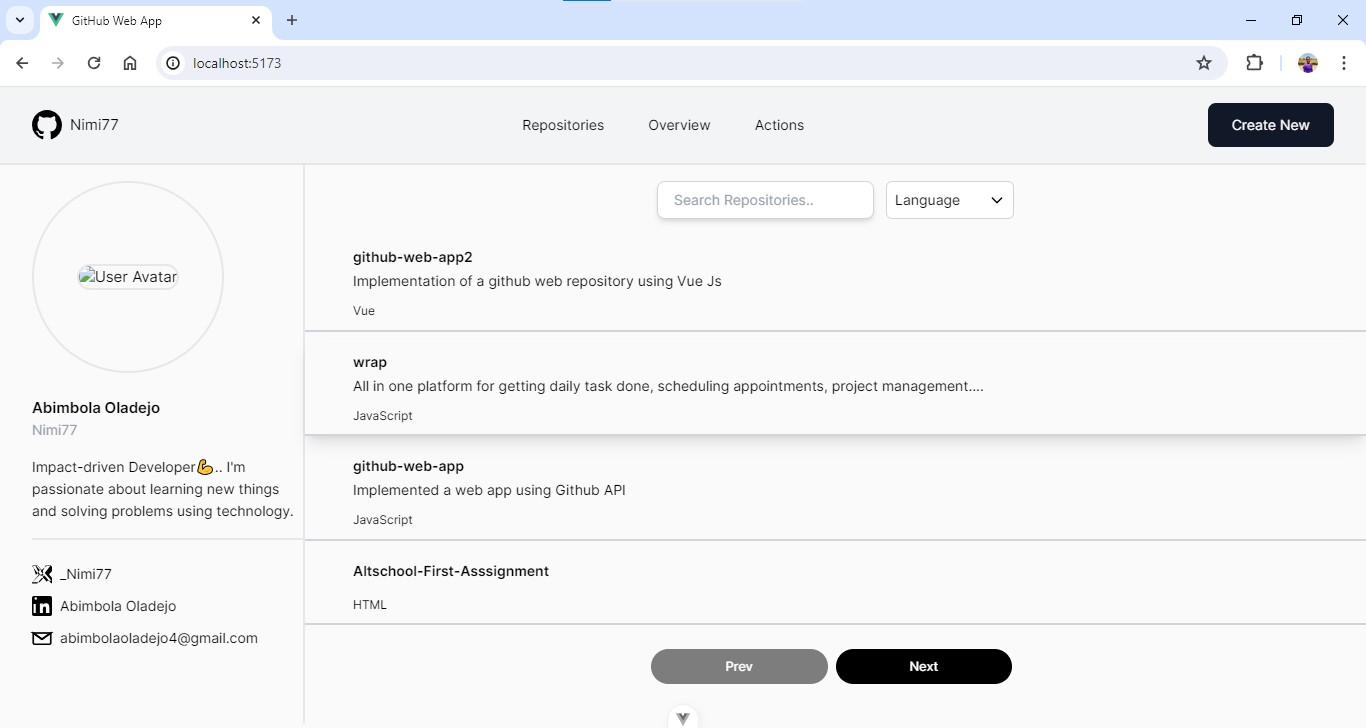
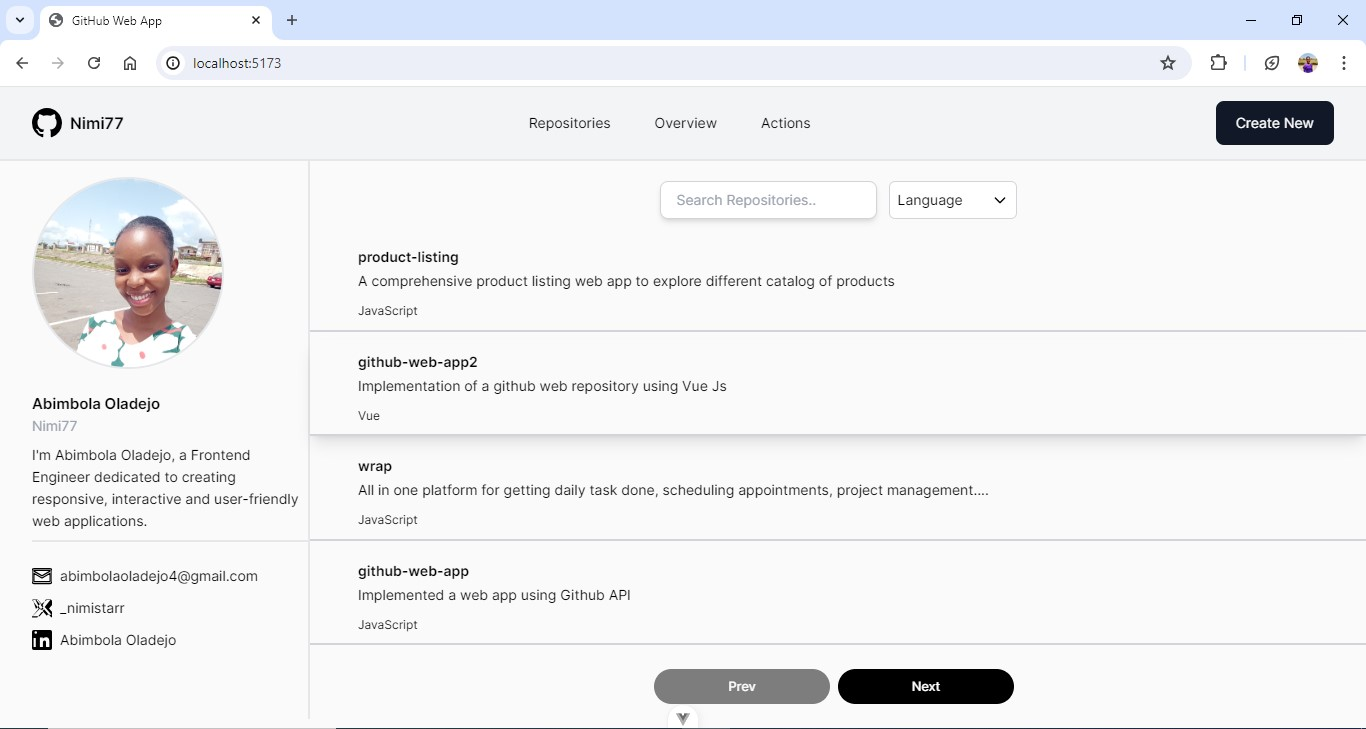
nav responsiveness

diff --git a/src/components/NavBar.vue b/src/components/NavBar.vue
@@ -1,5 +1,6 @@
 <script setup>
 import { ref, onMounted } from 'vue'
+import GithubIcon from './icons/GithubIcon.vue'
 
 const loading = ref(true)
 onMounted(() => {
@@ -13,45 +14,54 @@ onMounted(() => {
   <header role="banner">
     <div class="header-wrapper relative">
       <div><a href="#main-content" class="px-3 text-black focus-shown">Skip to Content</a></div>
-      <div class="nav-container w-full px-4 py-4 lg:py-4 lg:px-8 bg-gray-100 border-b-2 border-gray-200">
+      <div
+        class="nav-container w-full px-4 py-4 lg:py-3.5 lg:px-8 bg-gray-100 border-b-2 border-gray-200"
+      >
         <nav class="flex justify-between items-center">
-          <div class="flex items-center justify-center gap-2">
-            <div v-if="!loading">
-              <!-- if the page is not loading then display content -->
-              <svg width="30" height="30" viewBox="0 0 16 16" version="1.1" class="github-icon">
-                <path
-                  d="M8 0c4.42 0 8 3.58 8 8a8.013 8.013 0 0 1-5.45 7.59c-.4.08-.55-.17-.55-.38 0-.27.01-1.13.01-2.2 0-.75-.25-1.23-.54-1.48 1.78-.2 3.65-.88 3.65-3.95 0-.88-.31-1.59-.82-2.15.08-.2.36-1.02-.08-2.12 0 0-.67-.22-2.2.82-.64-.18-1.32-.27-2-.27-.68 0-1.36.09-2 .27-1.53-1.03-2.2-.82-2.2-.82-.44 1.1-.16 1.92-.08 2.12-.51.56-.82 1.28-.82 2.15 0 3.06 1.86 3.75 3.64 3.95-.23.2-.44.55-.51 1.07-.46.21-1.61.55-2.33-.66-.15-.24-.6-.83-1.23-.82-.67.01-.27.38.01.53.34.19.73.9.82 1.13.16.45.68 1.31 2.69.94 0 .67.01 1.3.01 1.49 0 .21-.15.45-.55.38A7.995 7.995 0 0 1 0 8c0-4.42 3.58-8 8-8Z">
-                </path>
-              </svg>
-            </div>
-            <div v-else class="rounded-full skeleton" style="width: 30px; height: 30px"></div>
-            <!-- otherwise do not display content-->
-            <h3 v-if="!loading" class="twxt-md">Nimi77</h3>
-            <!-- skeleton -->
-            <div v-else class="skeleton" style="width: 60px; height: 20px"></div>
+          <div v-if="!loading" class="flex items-center justify-center gap-2">
+            <!-- if the page is not loading then display content -->
+            <GithubIcon />
+            <h3 class="text-sm lg:text-md font-semibold">Nimi77</h3>
           </div>
-          <ul v-if="!loading" class="flex justify-center lg:space-x-5 space-x-1 text-sm">
-            <li class="hover:bg-gray-200 rounded-md lg:px-3 lg:py-2  py-2 px-1 transition duration-300 ease">
+          <!--otherwise do not display content -- skeleton -->
+          <div v-else class="flex items-center justify-center gap-2">
+            <div class="rounded-full skeleton w-8 h-8"></div>
+            <div class="skeleton lg:w-[60px] lg:h-5 w-0 h-0"></div>
+          </div>
+          <ul v-if="!loading" class="flex justify-center lg:space-x-5 space-x-3 text-sm">
+            <li
+              class="hover:bg-gray-200 rounded-md lg:px-3 lg:py-2 py-2 px-1 transition duration-300 ease"
+            >
               <router-link to="/">Repositories</router-link>
             </li>
-            <li class="hover:bg-gray-200 rounded-md  lg:px-3 lg:py-2  py-2 px-1transition duration-300 ease">
+            <li
+              class="hover:bg-gray-200 rounded-md lg:px-3 lg:py-2 py-2 px-1transition duration-300 ease"
+            >
               <router-link to="/404Page">Overview</router-link>
             </li>
-            <li class="hover:bg-gray-200 rounded-md  lg:px-3 lg:py-2  py-2 px-1 transition duration-300 ease">
+            <li
+              class="hover:bg-gray-200 rounded-md lg:px-3 lg:py-2 py-2 px-1 transition duration-300 ease"
+            >
               <router-link to="/error-boundary">Actions</router-link>
             </li>
           </ul>
           <!-- skeleton s-->
           <ul v-else class="flex justify-center lg:space-x-5 space-x-1">
-            <li class="rounded-md  lg:px-3 lg:py-2  py-2 px-1 skeleton lg:w-28 lg:h-8 w-20 h-5"></li>
-            <li class="rounded-md  lg:px-3 lg:py-2  py-2 px-1 skeleton lg:w-28 lg:h-8 w-20 h-5" ></li>
-            <li class="rounded-md  lg:px-3 lg:py-2  py-2 px-1 skeleton lg:w-28 lg:h-8 w-20 h-5"></li>
+            <li class="rounded-md lg:px-3 lg:py-2 py-2 px-1 skeleton lg:w-28 lg:h-8 w-20 h-5"></li>
+            <li class="rounded-md lg:px-3 lg:py-2 py-2 px-1 skeleton lg:w-28 lg:h-8 w-20 h-5"></li>
+            <li class="rounded-md lg:px-3 lg:py-2 py-2 px-1 skeleton lg:w-28 lg:h-8 w-20 h-5"></li>
           </ul>
           <!-- skeleton e -->
-          <button v-if="!loading" class="lg:px-6 lg:py-3 px-2 py-2 bg-gray-900 text-white rounded-lg text-sm">
+          <button
+            v-if="!loading"
+            class="lg:px-5 lg:py-3 px-3 py-2 bg-gray-900 text-white rounded-lg text-sm"
+          >
             Create New
           </button>
-          <div v-else class="lg:px-6 lg:py-3 px-2 py-2 lg:w-28 lg:h-10 w-20 h-6 rounded-lg skeleton"></div>
+          <div
+            v-else
+            class="lg:px-6 lg:py-3 px-2 py-2 lg:w-28 lg:h-10 w-20 h-6 rounded-lg skeleton"
+          ></div>
         </nav>
       </div>
     </div>

diff --git a/src/components/SideBar.vue b/src/components/SideBar.vue
@@ -2,11 +2,11 @@
   <div class="sidebar border-r-2 border-gray-200 h-[87vh]" id="sideBar">
     <div class="sidebar-container pl-8 pt-4">
       <div v-if="!loading"
-        class="relative h-48 w-48 flex items-center justify-center border-2 border-gray-200 rounded-full">
+        class="relative h-48 w-48 flex items-center justify-center border-1 border-gray-200 rounded-full">
         <img :src="githubUser.avatar_url" alt="User Avatar" class="rounded-full border-2 border-gray-200" />
       </div>
       <!-- image skeleton -->
-      <div v-else class="h-48 w-48 flex items-center justify-center border-2 border-gray-200 rounded-full skeleton">
+      <div v-else class="h-48 w-48 flex items-center justify-center border-1 border-gray-200 rounded-full skeleton">
         <img class="rounded-full" />
       </div>
       <!-- user profile -->
@@ -15,7 +15,7 @@
           <h2 class="font-semibold">{{ githubUser.name }}</h2>
           <span class="text-sm text-gray-400">{{ githubUser.login }}</span>
         </div>
-        <p class="my-4 text-sm">
+        <p class="my-2 text-sm pr-2">
           {{ githubUser.bio }}
         </p>
       </div>
@@ -31,28 +31,16 @@
       <div class="socials-links">
         <ul v-if="!loading" class="space-y-3 text-sm">
           <li class="flex items-center">
-            <svg width="20" height="20" fill="black" class="mr-2" viewBox="0 0 24 24">
-              <path
-                d="M23.05 2.57c.12-.27 0-.59-.28-.69-.11-.04-.22-.06-.34-.06h-5.86L12.33 9.2 6.58 1.82H.91c-.31 0-.56.25-.56.56 0 .12.04.24.11.34l7.7 10.15-8.23 9.5c-.2.22-.18.56.05.75.1.09.23.14.36.14h5.87l8.29-9.68 8.48 9.67h5.59c.3 0 .56-.25.56-.56 0-.13-.05-.26-.13-.36l-8.56-9.75 7.8-9.01zm-5.42-.31h4.27L13.8 12.53 10.27 8.03 17.63 2.26zM7.52 2.26l6.16 7.7-3.47 4.01L4.2 2.25h3.32zM.91 2.26h4.32l4.06 5.08-.02.02L4.78 13.3 1.19 2.26zM.92 21.74L9.9 12.25l3.7 4.53-4.47 5.22H.92zm17.18 0l-6.16-7.03 3.38-3.9 8.06 9.19h-5.28z" />
-            </svg>
-            <a :href="'https://twitter.com/' + githubUser.twitter_username">{{
-              githubUser.twitter_username
-            }}</a>
+            <EmailIcon/>
+            <a :href="'mailto:abimbolaoladejo4@gmail.com'" class="flex items-center" aria-label="Email: abimbolaoladejo4@gmail.com">abimbolaoladejo4@gmail.com</a>
           </li>
           <li class="flex items-center">
-            <svg width="20" height="20" fill="black" class="mr-2" viewBox="0 0 24 24">
-              <path
-                d="M20.45 20.45h-3.64V15.3c0-1.23-.02-2.82-1.72-2.82-1.73 0-2 1.35-2 2.74v5.22H9.45V9h3.5v1.56h.05c.49-.93 1.69-1.9 3.47-1.9 3.7 0 4.38 2.43 4.38 5.6v6.19h-.01zm-15.91-11H1.91V9h2.63v11.45H1.91V9h2.63v11.45h2.62V9zm-.02-4.91a1.55 1.55 0 110-3.1 1.55 1.55 0 010 3.1zm3.51 15.91V9H5.91v11.45H9.45zM21.91 0H2.09A2.09 2.09 0 000 2.09v19.82A2.09 2.09 0 002.09 24h19.82A2.09 2.09 0 0024 21.91V2.09A2.09 2.09 0 0021.91 0z" />
-            </svg>
-            <a :href="'https://linkedin.com/in/abimbola-oladejo-58372a285/'">Abimbola Oladejo</a>
+            <TwitterIcon/>
+            <a :href="'https://twitter.com/' + githubUser.twitter_username">{{ githubUser.twitter_username}}</a>
           </li>
           <li class="flex items-center">
-            <svg xmlns="http://www.w3.org/2000/svg" viewBox="0 0 24 24" width="20" height="20" class="mr-2">
-              <path d="M12 13.5L1.5 6V18c0 .825.675 1.5 1.5 1.5h18c.825 0 1.5-.675 1.5-1.5V6L12 13.5z" fill="none"
-                stroke="black" stroke-width="2" />
-              <path d="M12 13.5L1.5 6h21L12 13.5z" fill="none" stroke="black" stroke-width="2" />
-            </svg>
-            <a :href="'mailto:'" class="flex items-center">abimbolaoladejo4@gmail.com</a>
+            <LinkedInIcon/>
+            <a :href="'https://linkedin.com/' + githubUser.linkedin_username ">Abimbola Oladejo</a>
           </li>
         </ul>
         <!-- skeleton -->
@@ -78,6 +66,9 @@
 <script setup>
 import { ref, onMounted } from 'vue'
 import { Octokit } from '@octokit/core'
+import EmailIcon from './icons/EmailIcon.vue'
+import TwitterIcon from './icons/TwitterIcon.vue';
+import LinkedInIcon from './icons/LinkedInIcon.vue';
 
 const githubUser = ref({})
 const loading = ref(true)

diff --git a/src/components/icons/GithubIcon.vue b/src/components/icons/GithubIcon.vue
@@ -1,0 +1,7 @@
+<template>
+  <svg width="30" height="30" viewBox="0 0 16 16" version="1.1" class="github-icon">
+    <path
+      d="M8 0c4.42 0 8 3.58 8 8a8.013 8.013 0 0 1-5.45 7.59c-.4.08-.55-.17-.55-.38 0-.27.01-1.13.01-2.2 0-.75-.25-1.23-.54-1.48 1.78-.2 3.65-.88 3.65-3.95 0-.88-.31-1.59-.82-2.15.08-.2.36-1.02-.08-2.12 0 0-.67-.22-2.2.82-.64-.18-1.32-.27-2-.27-.68 0-1.36.09-2 .27-1.53-1.03-2.2-.82-2.2-.82-.44 1.1-.16 1.92-.08 2.12-.51.56-.82 1.28-.82 2.15 0 3.06 1.86 3.75 3.64 3.95-.23.2-.44.55-.51 1.07-.46.21-1.61.55-2.33-.66-.15-.24-.6-.83-1.23-.82-.67.01-.27.38.01.53.34.19.73.9.82 1.13.16.45.68 1.31 2.69.94 0 .67.01 1.3.01 1.49 0 .21-.15.45-.55.38A7.995 7.995 0 0 1 0 8c0-4.42 3.58-8 8-8Z"
+    ></path>
+  </svg>
+</template>

diff --git a/src/components/icons/TwitterIcon.vue b/src/components/icons/TwitterIcon.vue
@@ -1,0 +1,7 @@
+<template>
+    <svg width="20" height="20" fill="black" class="mr-2" viewBox="0 0 24 24">
+      <path
+        d="M23.05 2.57c.12-.27 0-.59-.28-.69-.11-.04-.22-.06-.34-.06h-5.86L12.33 9.2 6.58 1.82H.91c-.31 0-.56.25-.56.56 0 .12.04.24.11.34l7.7 10.15-8.23 9.5c-.2.22-.18.56.05.75.1.09.23.14.36.14h5.87l8.29-9.68 8.48 9.67h5.59c.3 0 .56-.25.56-.56 0-.13-.05-.26-.13-.36l-8.56-9.75 7.8-9.01zm-5.42-.31h4.27L13.8 12.53 10.27 8.03 17.63 2.26zM7.52 2.26l6.16 7.7-3.47 4.01L4.2 2.25h3.32zM.91 2.26h4.32l4.06 5.08-.02.02L4.78 13.3 1.19 2.26zM.92 21.74L9.9 12.25l3.7 4.53-4.47 5.22H.92zm17.18 0l-6.16-7.03 3.38-3.9 8.06 9.19h-5.28z"
+      />
+    </svg>
+ </template>

diff --git a/src/components/icons/LinkedInIcon.vue b/src/components/icons/LinkedInIcon.vue
@@ -1,0 +1,7 @@
+<template>
+  <svg width="20" height="20" fill="black" class="mr-2" viewBox="0 0 24 24">
+    <path
+      d="M20.45 20.45h-3.64V15.3c0-1.23-.02-2.82-1.72-2.82-1.73 0-2 1.35-2 2.74v5.22H9.45V9h3.5v1.56h.05c.49-.93 1.69-1.9 3.47-1.9 3.7 0 4.38 2.43 4.38 5.6v6.19h-.01zm-15.91-11H1.91V9h2.63v11.45H1.91V9h2.63v11.45h2.62V9zm-.02-4.91a1.55 1.55 0 110-3.1 1.55 1.55 0 010 3.1zm3.51 15.91V9H5.91v11.45H9.45zM21.91 0H2.09A2.09 2.09 0 000 2.09v19.82A2.09 2.09 0 002.09 24h19.82A2.09 2.09 0 0024 21.91V2.09A2.09 2.09 0 0021.91 0z"
+    />
+  </svg>
+</template>

diff --git a/src/components/icons/EmailIcon.vue b/src/components/icons/EmailIcon.vue
@@ -1,0 +1,10 @@
+<template>
+  <svg viewBox="0 0 16 16" width="20" height="20" class="mr-2">
+    <path
+      d="M1.75 2h12.5c.966 0 1.75.784 1.75 1.75v8.5A1.75 1.75 0 0 1 14.25 14H1.75A1.75 1.75 0 0 1 0 12.25v-8.5C0 2.784.784 2 1.75 2ZM1.5 12.251c0 .138.112.25.25.25h12.5a.25.25 0 0 0 .25-.25V5.809L8.38 9.397a.75.75 0 0 1-.76 0L1.5 5.809v6.442Zm13-8.181v-.32a.25.25 0 0 0-.25-.25H1.75a.25.25 0 0 0-.25.25v.32L8 7.88Z"
+      fill="none"
+      stroke="black"
+      stroke-width="1"
+    />
+  </svg>
+</template>

diff --git a/src/views/ReposPage.vue b/src/views/ReposPage.vue
@@ -88,7 +88,7 @@ onMounted(() => {
 
 <template>
   <div class="repository">
-    <div class="r-content flex flex-col justify-center lg:pt-4 lg:pb-6 pb-8" id="main-content">
+    <div class="r-content flex flex-col justify-center lg:pt-5 lg:pb-6 pb-8" id="main-content">
       <!-- search and filter-->
       <div v-if="!sLoading" class="searchFilter flex justify-center gap-3">
         <div id="search">

diff --git a/src/assets/main.css b/src/assets/main.css
@@ -49,7 +49,7 @@ button:focus{
 /* main styling */
 .main{
   display:grid;
-  grid-template-columns:305px 1fr;
+  grid-template-columns:310px 1fr;
 }
 .user-profile p{
   line-height:22px;
@@ -82,4 +82,10 @@ button:focus{
   }
  
 }
+@media screen and (max-width: 600px) {
+  .nav-container h3{
+    display:none;
+  }
+}
+
 

diff --git a/README.md b/README.md
@@ -20,7 +20,7 @@ This project is a Vue.js application designed to mimic the GitHub web interface 
 
 ## Demo
 
-You can check out a live demo of the project [here](#https://github-web-app2-64181h6sb-toluwanimis-projects.vercel.app/).
+You can check out a live demo of the project [here](https://github-web-app2-64181h6sb-toluwanimis-projects.vercel.app/).
 
 ## Features
 
@@ -37,16 +37,14 @@ Lists all the repositories for a given GitHub user. It fetches data from the Git
 Octokit and displays it in a list format.
 
 **RepoDetailsPage**
-Displays detailed information about a single repository, such as the repository's name, description,
-stars, forks, and other relevant information.
+Displays detailed information about a single repository, such as the repository's name, description,stars, forks, and other relevant information.
 
 **ErrorBoundary**
 Captures any errors in the application and renders a fallback UI. This helps in handling any 
 unexpected issues in the app. The [Overview] nav shows the error in the application if there is any.
 
 **NotFoundPage**
-Renders a 404 error page when a user navigates to a non-existing route. The [Action] nav is use 
- as the non existing route
+Renders a 404 error page when a user navigates to a non-existing route. The [Action] nav is use as the non existing route.
 
-## Screnshots
+## Screnshot
 ![A screenshot of the Github Web UI](/public/github-web.jpg)
